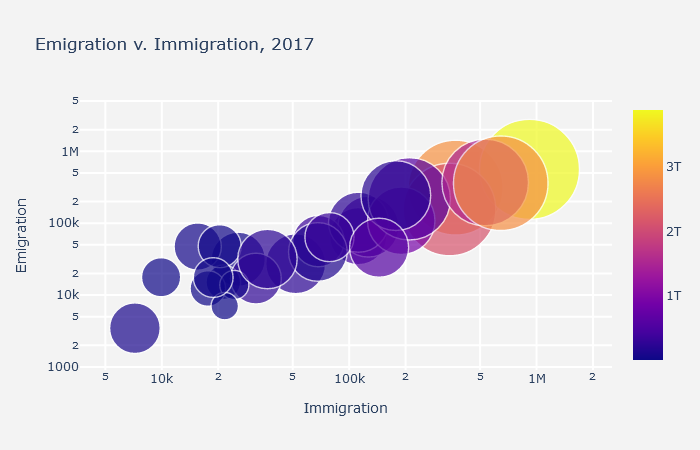
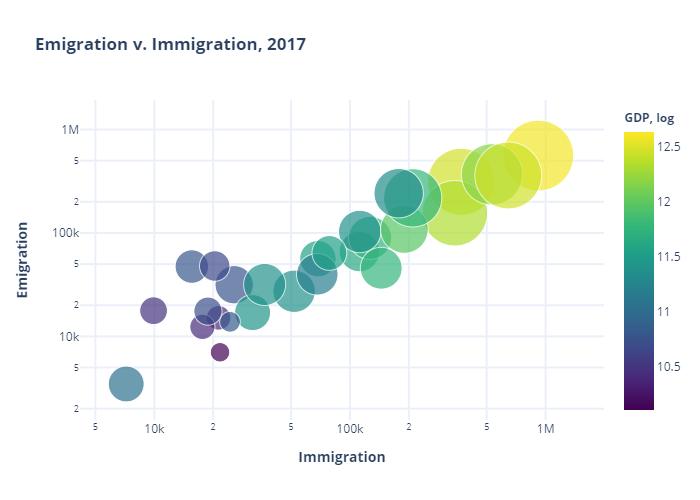
upd

diff --git a/Research/research.py b/Research/research.py
@@ -179,3 +179,4 @@ os.path.relpath(
     'C:\\Users\\Nvmind\\github\\thesis-informal-institutions\\Research\\Graphics', start=None)
 eu_scatter.show()
 eu_scatter.write_image('..\\Graphics\\ImmiEmi.svg')
+eu_scatter.write_image('..\\Graphics\\ImmiEmi.png')

diff --git a/Research/Research.md b/Research/Research.md
@@ -192,6 +192,7 @@ os.path.relpath(
     'C:\\Users\\Nvmind\\github\\thesis-informal-institutions\\Research\\Graphics', start=None)
 eu_scatter.show()
 eu_scatter.write_image('..\\Graphics\\ImmiEmi.svg')
+eu_scatter.write_image('..\\Graphics\\ImmiEmi.png')
 
 ```
 Интерактивный график на сайте:
